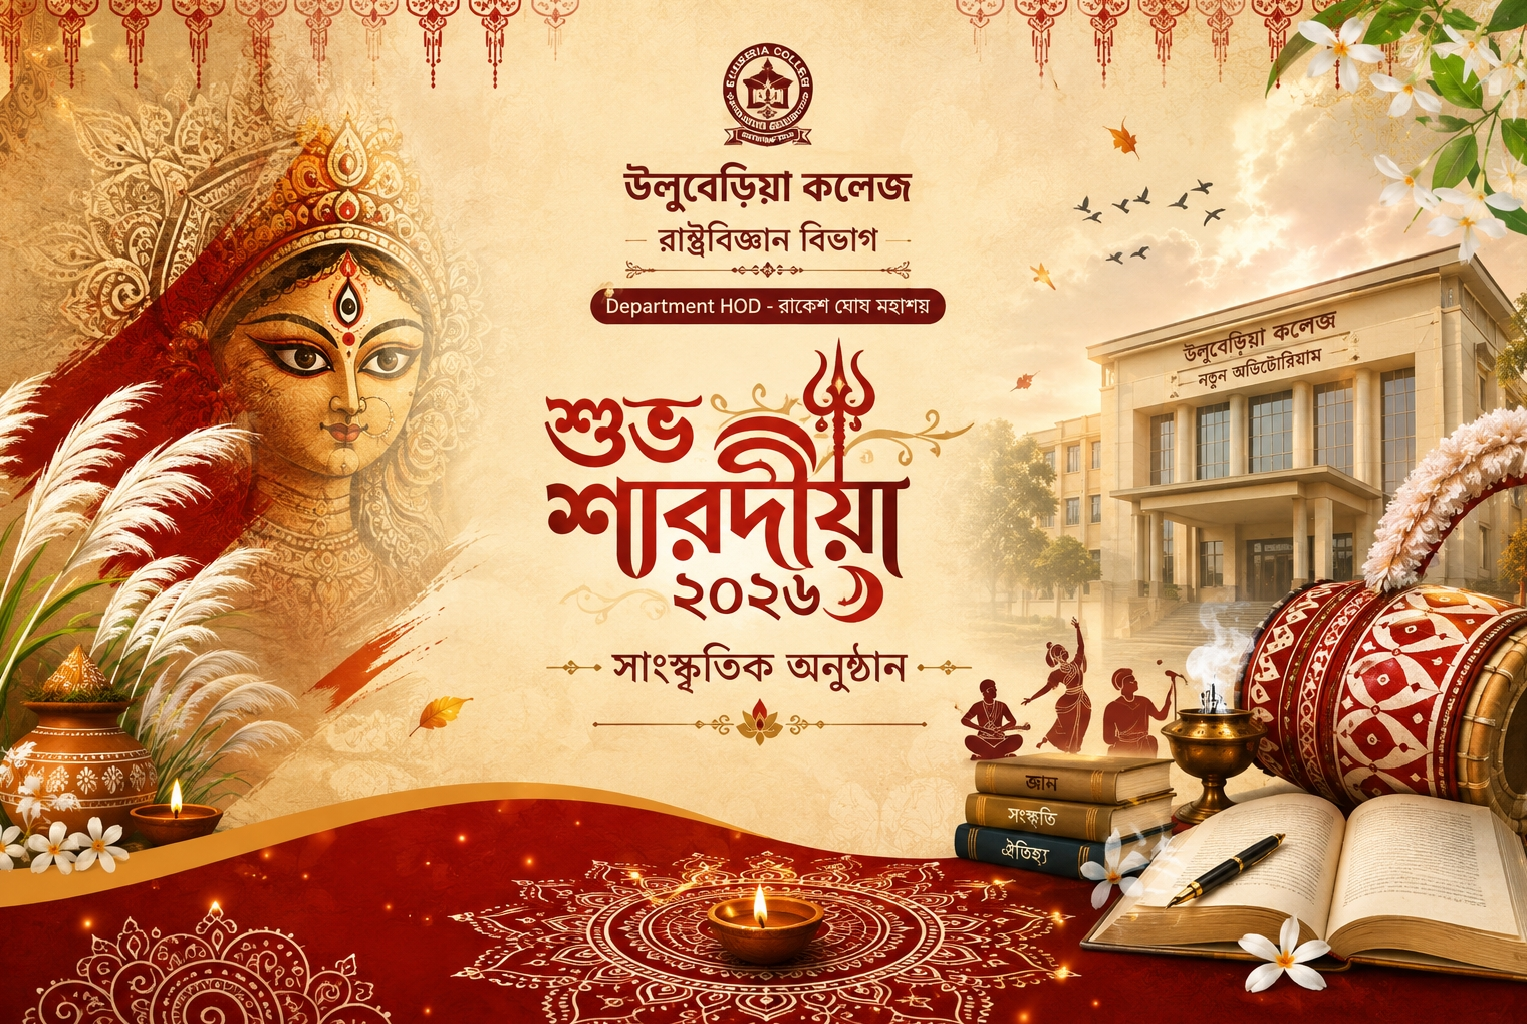
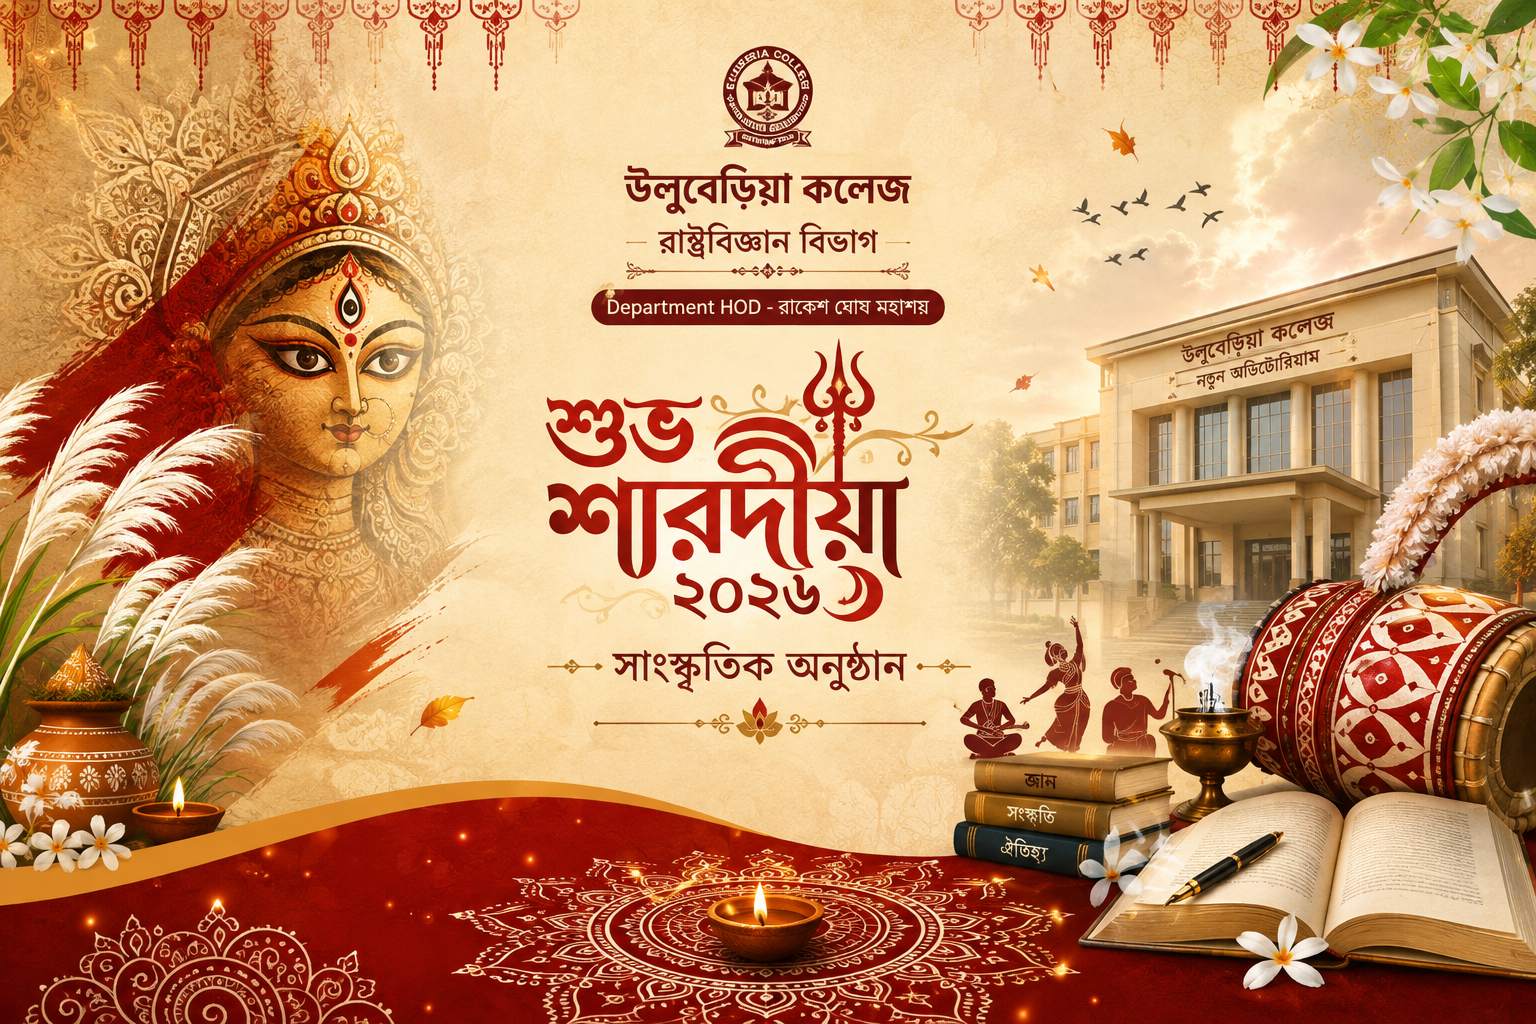
Add files via upload

diff --git a/index.html b/index.html
@@ -13,7 +13,7 @@
 *{box-sizing:border-box}html{scroll-behavior:smooth}body{margin:0;color:var(--ink);background:var(--cream);font-family:"Noto Sans Bengali",sans-serif;line-height:1.7}body.no-scroll{overflow:hidden}a{text-decoration:none;color:inherit}button,input,select,textarea{font:inherit}button{cursor:pointer}.container{width:min(1120px,92%);margin:auto}.section{padding:86px 0}.eyebrow{color:var(--gold);font-weight:800;letter-spacing:.05em}.section-title{font-family:"Tiro Bangla",serif;font-size:clamp(2rem,4vw,3.2rem);margin:.25rem 0 1rem}.muted{opacity:.78}.btn{border:1px solid transparent;border-radius:999px;padding:12px 20px;font-weight:800;transition:.25s;display:inline-flex;align-items:center;justify-content:center;gap:8px}.btn-gold{background:var(--gold);color:#fff}.btn-gold:hover{background:#ae7f25;transform:translateY(-2px)}.btn-outline{border-color:var(--gold);color:var(--wine);background:transparent}.btn-outline:hover{background:var(--gold);color:#fff}.glass{background:rgba(255,255,255,.12);backdrop-filter:blur(14px);border:1px solid rgba(240,204,118,.35)}
 #loader{position:fixed;inset:0;z-index:9999;background:var(--wine);color:var(--cream);display:grid;place-items:center;text-align:center;transition:.55s}.loader-inner{padding:24px}.loader-mark{width:68px;height:68px;margin:0 auto 18px;border:2px solid var(--lgold);border-radius:50%;display:grid;place-items:center;font-family:"Tiro Bangla";font-size:26px;color:var(--lgold)}.loader-hide{opacity:0;visibility:hidden;pointer-events:none}
 .nav{position:fixed;top:0;left:0;right:0;z-index:1000;padding:12px 0;transition:.25s}.nav.scrolled{background:rgba(93,13,24,.94);box-shadow:0 8px 30px rgba(0,0,0,.15)}.nav-inner{display:flex;align-items:center;justify-content:space-between;gap:20px}.brand{color:#fff;font-family:"Tiro Bangla";font-size:1.2rem}.brand small{display:block;font:600 .7rem "Noto Sans Bengali";color:var(--lgold)}.nav-links{display:flex;align-items:center;gap:4px}.nav-links a{color:#fff;padding:9px 12px;border-radius:12px;font-size:.92rem}.nav-links a:hover{background:rgba(255,255,255,.1)}.menu-btn{display:none;border:0;background:transparent;color:#fff;font-size:26px}
-.hero{min-height:100vh;background:radial-gradient(circle at 80% 25%,rgba(240,204,118,.18),transparent 28%),linear-gradient(125deg,#4b0913,#7b101f 55%,#9b2330);color:#fff;display:flex;align-items:center;position:relative;overflow:hidden}.hero:before,.hero:after{content:"";position:absolute;border:1px solid rgba(240,204,118,.25);border-radius:50%;width:420px;height:420px}.hero:before{right:-160px;top:-100px}.hero:after{left:-260px;bottom:-240px}.hero-grid{display:grid;grid-template-columns:1.1fr .9fr;gap:50px;align-items:center;padding-top:70px}.hero h1{font-family:"Tiro Bangla";font-size:clamp(3rem,7vw,6rem);line-height:1.08;margin:10px 0}.hero h2{font-size:clamp(1.25rem,3vw,2rem);font-weight:500;margin:0 0 20px}.hero p{max-width:680px;font-size:1.08rem;color:#fff7eb}.hero-actions{display:flex;flex-wrap:wrap;gap:12px;margin-top:28px}.hero .btn-outline{color:#fff;border-color:var(--lgold)}.hero-meta{margin-top:28px;color:#ffe7ad}.hero-image{min-height:450px;display:grid;place-items:center;position:relative}.durga-frame{width:min(390px,90%);aspect-ratio:4/5;border-radius:48% 48% 22% 22%;border:2px solid var(--lgold);padding:10px;position:relative;box-shadow:0 0 0 15px rgba(240,204,118,.08),0 25px 80px rgba(0,0,0,.25);overflow:hidden}.durga-frame img{width:100%;height:100%;object-fit:cover;border-radius:inherit}.durga-fallback{height:100%;display:grid;place-items:center;text-align:center;padding:30px;background:linear-gradient(145deg,#9f2534,#5d0d18);font-family:"Tiro Bangla";font-size:2rem;color:var(--lgold)}
+.hero{min-height:100vh;background-image:linear-gradient(rgba(0,0,0,.08),rgba(0,0,0,.08)),url("durga.jpg");background-size:cover;background-position:center;background-repeat:no-repeat;color:#fff;display:flex;align-items:center;position:relative;overflow:hidden}.hero:before,.hero:after{content:"";position:absolute;border:1px solid rgba(240,204,118,.25);border-radius:50%;width:420px;height:420px}.hero:before{right:-160px;top:-100px}.hero:after{left:-260px;bottom:-240px}.hero-grid{display:grid;grid-template-columns:1.1fr .9fr;gap:50px;align-items:center;padding-top:70px}.hero h1{font-family:"Tiro Bangla";font-size:clamp(3rem,7vw,6rem);line-height:1.08;margin:10px 0}.hero h2{font-size:clamp(1.25rem,3vw,2rem);font-weight:500;margin:0 0 20px}.hero p{max-width:680px;font-size:1.08rem;color:#fff7eb}.hero-actions{display:flex;flex-wrap:wrap;gap:12px;margin-top:28px}.hero .btn-outline{color:#fff;border-color:var(--lgold)}.hero-meta{margin-top:28px;color:#ffe7ad}.hero-image{min-height:450px;display:grid;place-items:center;position:relative}.durga-frame{width:min(390px,90%);aspect-ratio:4/5;border-radius:48% 48% 22% 22%;border:2px solid var(--lgold);padding:10px;position:relative;box-shadow:0 0 0 15px rgba(240,204,118,.08),0 25px 80px rgba(0,0,0,.25);overflow:hidden}.durga-frame img{width:100%;height:100%;object-fit:cover;border-radius:inherit}.durga-fallback{height:100%;display:grid;place-items:center;text-align:center;padding:30px;background:linear-gradient(145deg,#9f2534,#5d0d18);font-family:"Tiro Bangla";font-size:2rem;color:var(--lgold)}
 .light{background:var(--cream)}.dark{background:var(--wine);color:#fff}.center{text-align:center}.cards{display:grid;grid-template-columns:repeat(3,1fr);gap:20px;margin-top:34px}.card{background:rgba(255,255,255,.78);border:1px solid rgba(201,154,59,.28);border-radius:24px;padding:30px;box-shadow:var(--shadow);transition:.3s}.card:hover{transform:translateY(-7px);box-shadow:0 25px 55px rgba(73,9,18,.22)}.number{font-size:2.5rem;color:var(--gold);font-family:"Tiro Bangla"}.quote{font-family:"Tiro Bangla";font-size:clamp(1.7rem,4vw,3rem);max-width:850px;margin:0 auto;text-align:center}.gold-line{width:110px;height:2px;background:var(--lgold);margin:20px auto}.schedule{display:grid;gap:14px;max-width:850px;margin:35px auto 0}.schedule-item{display:grid;grid-template-columns:145px 1fr;gap:18px;padding:18px 20px;border-radius:18px;background:#fff;border-left:5px solid var(--gold);box-shadow:0 10px 30px rgba(73,9,18,.08)}.schedule-time{font-weight:800;color:var(--red)}
 .form-wrap{max-width:850px;margin:30px auto;background:#fff;padding:30px;border-radius:28px;box-shadow:var(--shadow)}.form-grid{display:grid;grid-template-columns:1fr 1fr;gap:18px}.field label{display:block;font-weight:800;margin-bottom:6px}.field.full{grid-column:1/-1}.field input,.field select,.field textarea{width:100%;padding:12px 14px;border:1px solid #dfcfb0;border-radius:13px;background:#fffdf8;outline:none}.field input:focus,.field select:focus,.field textarea:focus{border-color:var(--gold);box-shadow:0 0 0 3px rgba(201,154,59,.13)}.field textarea{min-height:110px;resize:vertical}.form-actions{margin-top:20px}.contact-grid{display:grid;grid-template-columns:repeat(3,1fr);gap:18px;margin-top:30px}.contact-card{padding:25px;border-radius:22px;background:#fff;border:1px solid #ead9b6}
 #adminView{display:none;min-height:100vh;background:#f5eee0;padding-top:82px}.admin-shell{width:min(1200px,94%);margin:auto;padding:30px 0 70px}.admin-head{display:flex;align-items:center;justify-content:space-between;gap:15px;margin-bottom:20px}.stats{display:grid;grid-template-columns:repeat(4,1fr);gap:15px}.stat{background:#fff;border-radius:20px;padding:20px;border:1px solid #ead9b6;box-shadow:0 8px 24px rgba(73,9,18,.08)}.stat b{display:block;font-size:2rem;color:var(--wine)}.greeting-card{position:relative;overflow:hidden;background:linear-gradient(135deg,#5d0d18,#8f1826);color:var(--cream);border:1px solid var(--gold);border-radius:28px;padding:32px;margin:0 0 25px;box-shadow:0 18px 50px rgba(73,9,18,.2);animation:greetIn .55s ease both}.greeting-card:after{content:"";position:absolute;width:130px;height:130px;border:1px solid rgba(240,204,118,.22);border-radius:50%;right:-50px;top:-50px}.greeting-mark{text-align:center;color:var(--lgold);font-size:1.1rem}.greeting-title{text-align:center;font:1.65rem "Tiro Bangla";margin:4px 0 14px}.greeting-divider{width:90px;height:1px;background:var(--lgold);margin:0 auto 20px}.greeting-text{text-align:center;max-width:850px;margin:auto;font-family:"Tiro Bangla";font-size:1.04rem}.greeting-sign{display:block;margin-top:16px;color:var(--lgold);font-size:1.2rem}.admin-card{background:#fff;border-radius:22px;padding:22px;margin-top:20px;border:1px solid #ead9b6;overflow:hidden}.toolbar{display:flex;flex-wrap:wrap;gap:10px;margin-bottom:15px}.toolbar input,.toolbar select{padding:10px 12px;border:1px solid #ddcda9;border-radius:12px;background:#fffdf8}.table-wrap{overflow:auto}table{width:100%;border-collapse:collapse;min-width:900px}th,td{text-align:left;padding:12px;border-bottom:1px solid #eee1c5;white-space:nowrap}th{background:#fff8e9;color:var(--wine)}.small-btn{border:0;border-radius:9px;padding:7px 10px;background:#8f1826;color:#fff}.small-btn.gold{background:var(--gold)}.admin-note{margin-top:18px;padding:14px;border-radius:13px;background:#fff8e9;border-left:4px solid var(--gold);font-size:.88rem}.modal{position:fixed;inset:0;z-index:2000;background:rgba(25,3,7,.65);display:none;place-items:center;padding:20px}.modal.show{display:grid}.modal-box{width:min(600px,100%);background:#fffdf8;border-radius:24px;padding:28px;max-height:90vh;overflow:auto}.gallery-preview{display:grid;grid-template-columns:repeat(4,1fr);gap:10px}.gallery-item{position:relative;aspect-ratio:1;border-radius:12px;overflow:hidden;background:#eee}.gallery-item img{width:100%;height:100%;object-fit:cover}.gallery-item button{position:absolute;right:5px;top:5px;border:0;border-radius:50%;background:#8f1826;color:#fff;width:28px;height:28px}
@@ -41,7 +41,7 @@ footer{background:#35060d;color:#fff;padding:40px 0;text-align:center;border-top
 <div><div class="eyebrow">শারদ উৎসব • ২০২৬</div><h1>শুভ শারদীয়া</h1><h2>সাংস্কৃতিক অনুষ্ঠান</h2><p>শারদের নির্মল আকাশ, কাশফুলের দোলা আর উৎসবের আবেশে সংস্কৃতির ছন্দে একসঙ্গে উদযাপন করি আমাদের এই বিশেষ দিন।</p>
 <div class="hero-actions"><a class="btn btn-gold" href="#registration">অনুষ্ঠানে অংশ নিন</a><a class="btn btn-outline" href="#schedule">অনুষ্ঠান দেখুন</a></div>
 <div class="hero-meta">Department of Political Science<br>Department HOD — রাকেশ ঘোষ মহাশয়</div></div>
-<div class="hero-image"><div class="durga-frame"><img src="assets/durga.jpg" alt="দুর্গা মায়ের ছবি" onerror="this.style.display='none';this.nextElementSibling.style.display='grid'"><div class="durga-fallback" style="display:none">দুর্গা মায়ের শুভ আগমন</div></div></div>
+<div class="hero-image" aria-hidden="true"></div>
 </div></section>
 
 <section class="section light" id="festival"><div class="container center"><div class="eyebrow">সংস্কৃতি ও ঐতিহ্য</div><h2 class="section-title">উৎসবের আবেশে</h2><p class="muted">এই আয়োজন শুধু একটি অনুষ্ঠান নয়—<br>এটি আমাদের প্রতিভা, সংস্কৃতি এবং একসঙ্গে থাকার উদযাপন।</p>
@@ -85,6 +85,9 @@ footer{background:#35060d;color:#fff;padding:40px 0;text-align:center;border-top
 
 <div class="admin-card"><h2>অনুষ্ঠানের সূচি সম্পাদনা</h2><div id="scheduleEditor"></div><button class="btn btn-gold" id="addScheduleBtn">নতুন সূচি যোগ করুন</button><button class="btn btn-outline" id="saveScheduleBtn">সূচি সংরক্ষণ করুন</button></div>
 
+<div class="admin-card"><h2>গ্যালারি ব্যবস্থাপনা</h2><input type="file" id="galleryInput" accept="image/*" multiple><p class="muted">ছবিগুলি এই ব্রাউজারের localStorage-এ রাখা হবে। বেশি/বড় ছবি দিলে storage সীমা পূর্ণ হতে পারে।</p><div class="gallery-preview" id="galleryPreview"></div></div>
+
+<div class="admin-note">এই authentication system demo উদ্দেশ্যে তৈরি। ডেটা এই browser/device-এর localStorage-এ থাকে। Production deployment-এর জন্য server-side authentication, password hashing এবং database ব্যবহার করা আবশ্যক।</div>
 </div></section>
 
 <div class="modal" id="loginModal"><div class="modal-box"><h2>অ্যাডমিন লগইন</h2><p class="muted">শুধুমাত্র অনুমোদিত অ্যাডমিনের জন্য।</p><form id="loginForm"><div class="field"><label>ইউজারনেম</label><input id="username" autocomplete="username" required></div><div class="field" style="margin-top:14px"><label>পাসওয়ার্ড</label><input id="password" type="password" autocomplete="current-password" required></div><div class="login-error" id="loginError">ইউজারনেম অথবা পাসওয়ার্ড সঠিক নয়।</div><button class="btn btn-gold" style="width:100%;margin-top:18px">লগইন</button></form><button class="btn btn-outline" id="closeLogin" style="width:100%;margin-top:10px">ফিরে যান</button></div></div>
@@ -94,7 +97,7 @@ footer{background:#35060d;color:#fff;padding:40px 0;text-align:center;border-top
 <script>
 "use strict";
 
-const ADMIN_USER="Uluberiacollege", ADMIN_PASS="Sharadiya2026";
+const ADMIN_USER="Uluberiacollege", ADMIN_PASS="@Sharadiya01";
 const REG_KEY="sharadiya2026_registrations_v2", SCH_KEY="sharadiya2026_schedule_v2", GAL_KEY="sharadiya2026_gallery_v2";
 
 const defaultSchedule=[
@@ -181,6 +184,7 @@ $("publicFooter").style.display="none";
 $("adminView").style.display="block";
 updateDashboard();
 renderScheduleEditor();
+renderGallery();
 window.scrollTo(0,0);
 }else{
 $("loginError").style.display="block";
@@ -358,6 +362,40 @@ URL.revokeObjectURL(url);
 $("printBtn").addEventListener("click",()=>window.print());
 
 function getGallery(){return getData(GAL_KEY,[])}
+
+function renderGallery(){
+const preview=$("galleryPreview");
+preview.innerHTML="";
+getGallery().forEach((src,index)=>{
+const item=document.createElement("div");
+item.className="gallery-item";
+item.innerHTML=`<img src="${src}" alt="Gallery image"><button onclick="deleteGallery(${index})">×</button>`;
+preview.appendChild(item);
+});
+}
+
+$("galleryInput").addEventListener("change",function(){
+[...this.files].forEach(file=>{
+const reader=new FileReader();
+reader.onload=e=>{
+const gallery=getGallery();
+gallery.push(e.target.result);
+try{saveData(GAL_KEY,gallery);renderGallery();renderPublicGallery()}
+catch(err){alert("Gallery storage limit পূর্ণ হয়ে গেছে।")}
+};
+reader.readAsDataURL(file);
+});
+this.value="";
+});
+
+window.deleteGallery=index=>{
+if(!confirm("এই ছবিটি মুছে ফেলতে চান?"))return;
+const g=getGallery();
+g.splice(index,1);
+saveData(GAL_KEY,g);
+renderGallery();
+renderPublicGallery();
+};
 
 document.querySelectorAll(".modal").forEach(modal=>{
 modal.addEventListener("click",e=>{
